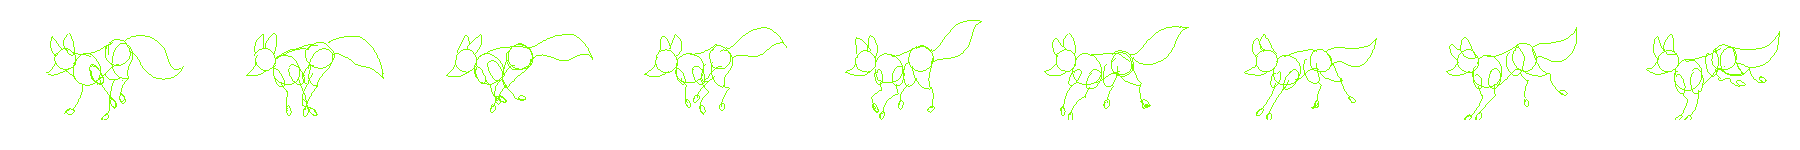
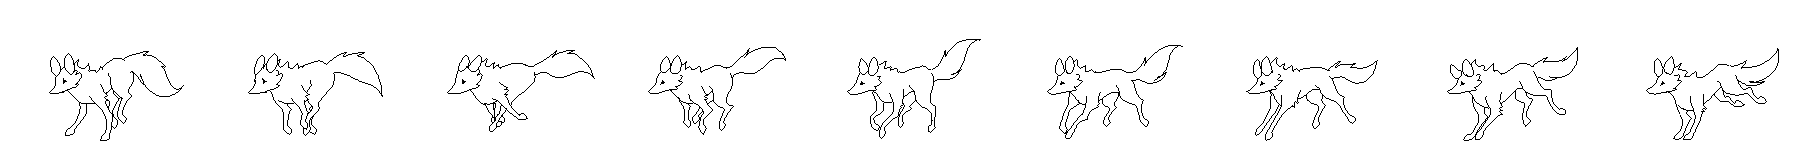
New yawara run lineart

diff --git a/src/components/Yawara.cpp b/src/components/Yawara.cpp
@@ -24,7 +24,7 @@
 #define YWR_ATK_CD		0.5
 #define YWR_ATK_ACT		4*0.05
 
-#define YWR_ANI_TIME	0.100
+#define YWR_ANI_TIME	0.070
 
 #define YWR_IDLE_D			"assets/img/yawara/yawara_idle_down.png"
 #define YWR_IDLE_D_FRAME	1
@@ -48,7 +48,7 @@
 #define YWR_RUN_U			"assets/img/yawara/yawara_run_up.png"
 #define YWR_RUN_U_FRAME		9
 #define YWR_RUN_L			"assets/img/yawara/yawara_run_left.png"
-#define YWR_RUN_L_FRAME		10
+#define YWR_RUN_L_FRAME		9
 #define YWR_RUN_R			"assets/img/yawara/yawara_walk_right.png"
 #define YWR_RUN_R_FRAME		12
 #define YWR_RUN_DL			"assets/img/yawara/yawara_run_down_left.png"
@@ -74,8 +74,8 @@ Yawara::Yawara(GameObject& associated) : Component(associated) {
 	Collider *cl = new Collider(associated);
 	associated.AddComponent(cl);
 
-	sp->SetScale({0.7, 0.7});
-	cl->SetScale({0.7, 0.7});
+	//sp->SetScale({0.7, 0.7});
+	//cl->SetScale({0.7, 0.7});
 
 	hp = YWR_HP;
 	att = YWR_ATT;
